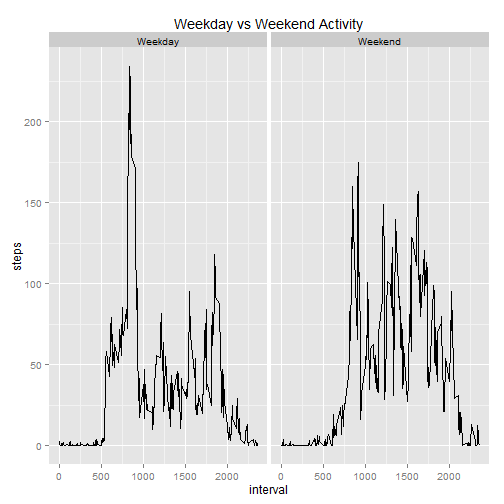
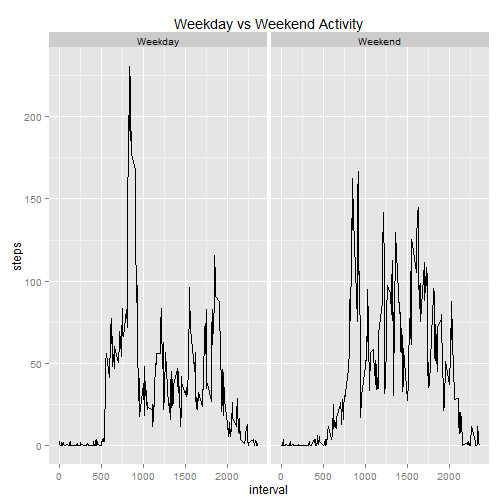
commit

diff --git a/PA1_template.html b/PA1_template.html
@@ -212,7 +212,7 @@ data &lt;- read.csv(fileName)
 data$date &lt;- as.character(data$date)
 </code></pre>
 
-<p>Create a second ata set without the NAs called data_na</p>
+<p>Create a second dataset without the NAs called: data_na</p>
 
 <pre><code class="r">data_na &lt;- subset(data, !is.na(data$steps))
 </code></pre>
@@ -240,19 +240,25 @@ for (i in days){
 
 <p>What are the mean and median number of steps</p>
 
-<p>&#39;&#39;&#39;{R}
-mean(number_of_steps); median(number_of_steps)</p>
+<pre><code class="r">mean(number_of_steps)
+</code></pre>
 
-<pre><code>Mean and median are fairly close, so it looks like there is not too much skew to the data.
+<pre><code>## [1] 10766.19
+</code></pre>
 
+<pre><code class="r">median(number_of_steps)
+</code></pre>
 
-## What is the average daily activity pattern?
+<pre><code>## [1] 10765
+</code></pre>
 
-Create a dataset, interval_result, which is the average steps per time interval
+<p>Mean and median are fairly close, so it looks like there is not too much skew to the data.</p>
 
+<h2>What is the average daily activity pattern?</h2>
 
-```r
-interval_result &lt;- data.frame()
+<p>Create a dataset, interval_result, which is the average steps per time interval</p>
+
+<pre><code class="r">interval_result &lt;- data.frame()
 interval &lt;- unique(data_na$interval)
 for (i in interval){
     interval_subset &lt;- subset(data_na, data_na$interval == i)
@@ -267,30 +273,59 @@ for (i in interval){
 <pre><code class="r">plot(interval_result$interval, interval_result$steps, xlab=&quot;Time Interval&quot;, ylab=&quot;Avg Steps&quot;, main=&quot;Average Steps At Time Of Day&quot;, type=&quot;l&quot;)
 </code></pre>
 
[2 lines of base64/hex data omitted]
 
 <h2>Imputing missing values</h2>
 
-<pre><code class="r">interval_result &lt;- data.frame()
-interval &lt;- unique(data_na$interval)
+<pre><code class="r">data_impute &lt;- data.frame()
+interval &lt;- unique(data$interval)
 for (i in interval){
-    interval_subset &lt;- subset(data_na, data_na$interval == i)
+    interval_subset &lt;- subset(data, data$interval == i)
 
-    t_avg &lt;- sd(interval_subset$steps)
-    interval_result &lt;- rbind(interval_result, data.frame(interval=i, steps=t_avg))
+    t_mean &lt;- mean(interval_subset$steps, na.rm=TRUE)
+    interval_subset$steps[is.na(interval_subset$steps)] &lt;- t_mean
+    data_impute &lt;- rbind(data_impute, interval_subset)
 }
 </code></pre>
 
-<pre><code class="r">plot(interval_result$interval, interval_result$steps, xlab=&quot;Time Interval&quot;, ylab=&quot;Avg Steps&quot;, main=&quot;Std Steps At Time Of Day&quot;, type=&quot;l&quot;)
+<p>Regraph the histogram for total steps per day using the imputed data</p>
+
+<pre><code class="r">number_of_steps &lt;-numeric()
+days &lt;- unique(data_impute$date)
+for (i in days){
+    day_subset &lt;- subset(data_impute, data_impute$date == i)
+
+    t_sum &lt;- sum(day_subset$steps)
+    number_of_steps &lt;- c(number_of_steps, t_sum)
+}
 </code></pre>
 
[1 lines of base64/hex data omitted]
+<p>Graph the distribution of steps per day</p>
+
+<pre><code class="r">hist(number_of_steps)
+</code></pre>
+
[1 lines of base64/hex data omitted]
+
+<p>Now let&#39;s see how the mean and median have changed after adding the imputed steps per day</p>
+
+<pre><code class="r">mean(number_of_steps)
+</code></pre>
+
+<pre><code>## [1] 10766.19
+</code></pre>
+
+<pre><code class="r">median(number_of_steps)
+</code></pre>
+
+<pre><code>## [1] 10766.19
+</code></pre>
 
 <h2>Are there differences in activity patterns between weekdays and weekends?</h2>
 
-<p>We need to create a new factor of weekday or weekend from day of week</p>
+<p>To answer this question, we need to create another factor which is either Weekday or Weekend, and apply it to the the data with imputed step values.  This will be a new column called: day_type</p>
 
-<pre><code class="r">day_type &lt;- as.Date(data_na$date)
+<pre><code class="r">day_type &lt;- as.Date(data_impute$date)
 day_type &lt;- weekdays(day_type)
 day_type &lt;- gsub(&quot;Monday&quot;, &quot;Weekday&quot;, day_type)
 day_type &lt;- gsub(&quot;Tuesday&quot;, &quot;Weekday&quot;, day_type)
@@ -300,10 +335,10 @@ day_type &lt;- gsub(&quot;Friday&quot;, &quot;Weekday&quot;, day_type)
 day_type &lt;- gsub(&quot;Saturday&quot;, &quot;Weekend&quot;, day_type)
 day_type &lt;- gsub(&quot;Sunday&quot;, &quot;Weekend&quot;, day_type)
 
-data_days &lt;- cbind(data_na, day_type)
+data_days &lt;- cbind(data_impute, day_type)
 </code></pre>
 
-<p>Compute the average </p>
+<p>Compute the average across day_type</p>
 
 <pre><code class="r">interval_result &lt;- data.frame()
 interval &lt;- unique(data_days$interval)
@@ -320,18 +355,18 @@ for (k in days){
 }
 </code></pre>
 
-<p>For this graph, we need to load teh gplot2 library</p>
+<p>For this graph, we need to load the gplot2 library</p>
 
 <pre><code class="r">library(ggplot2)
 </code></pre>
 
-<p>And plot the results</p>
+<p>And plot the Weekday and Weekend results side by side (since it is easier to read than up and down)</p>
 
 <pre><code class="r">g&lt;-ggplot(interval_result, aes(interval, steps)) + geom_line() + facet_grid(.~day) + labs(title=&quot;Weekday vs Weekend Activity&quot;)
 print(g)
 </code></pre>
 
[2 lines of base64/hex data omitted]
 
 </body>
 

diff --git a/PA1_template.md b/PA1_template.md
@@ -17,7 +17,7 @@ data <- read.csv(fileName)
 data$date <- as.character(data$date)
 ```
 
-Create a second ata set without the NAs called data_na
+Create a second dataset without the NAs called: data_na
 
 ```r
 data_na <- subset(data, !is.na(data$steps))
@@ -47,8 +47,22 @@ hist(number_of_steps)
 
 What are the mean and median number of steps
 
-'''{R}
-mean(number_of_steps); median(number_of_steps)
+
+```r
+mean(number_of_steps)
+```
+
+```
+## [1] 10766.19
+```
+
+
+```r
+median(number_of_steps)
+```
+
+```
+## [1] 10765
 ```
 Mean and median are fairly close, so it looks like there is not too much skew to the data.
 
@@ -75,35 +89,68 @@ Plot activity per time interval
 plot(interval_result$interval, interval_result$steps, xlab="Time Interval", ylab="Avg Steps", main="Average Steps At Time Of Day", type="l")
 ```
 
-![plot of chunk unnamed-chunk-5](figure/unnamed-chunk-5-1.png) 
+![plot of chunk daily_activity](figure/daily_activity-1.png) 
 
 ## Imputing missing values
 
 
 ```r
-interval_result <- data.frame()
-interval <- unique(data_na$interval)
+data_impute <- data.frame()
+interval <- unique(data$interval)
 for (i in interval){
-    interval_subset <- subset(data_na, data_na$interval == i)
+    interval_subset <- subset(data, data$interval == i)
     
-    t_avg <- sd(interval_subset$steps)
-    interval_result <- rbind(interval_result, data.frame(interval=i, steps=t_avg))
+    t_mean <- mean(interval_subset$steps, na.rm=TRUE)
+    interval_subset$steps[is.na(interval_subset$steps)] <- t_mean
+    data_impute <- rbind(data_impute, interval_subset)
 }
 ```
+Regraph the histogram for total steps per day using the imputed data
 
 
 ```r
-plot(interval_result$interval, interval_result$steps, xlab="Time Interval", ylab="Avg Steps", main="Std Steps At Time Of Day", type="l")
+number_of_steps <-numeric()
+days <- unique(data_impute$date)
+for (i in days){
+    day_subset <- subset(data_impute, data_impute$date == i)
+    
+    t_sum <- sum(day_subset$steps)
+    number_of_steps <- c(number_of_steps, t_sum)
+}
+```
+Graph the distribution of steps per day
+
+```r
+hist(number_of_steps)
 ```
 
-![plot of chunk unnamed-chunk-7](figure/unnamed-chunk-7-1.png) 
+![plot of chunk histogram_steps_per_day_impute](figure/histogram_steps_per_day_impute-1.png) 
 
-## Are there differences in activity patterns between weekdays and weekends?
+Now let's see how the mean and median have changed after adding the imputed steps per day
 
-We need to create a new factor of weekday or weekend from day of week
 
 ```r
-day_type <- as.Date(data_na$date)
+mean(number_of_steps)
+```
+
+```
+## [1] 10766.19
+```
+
+```r
+median(number_of_steps)
+```
+
+```
+## [1] 10766.19
+```
+## Are there differences in activity patterns between weekdays and weekends?
+
+To answer this question, we need to create another factor which is either Weekday or Weekend, and apply it to the the data with imputed step values.  This will be a new column called: day_type
+
+
+```r
+day_type <- as.Date(data_impute$date)
 day_type <- weekdays(day_type)
 day_type <- gsub("Monday", "Weekday", day_type)
 day_type <- gsub("Tuesday", "Weekday", day_type)
@@ -113,9 +160,9 @@ day_type <- gsub("Friday", "Weekday", day_type)
 day_type <- gsub("Saturday", "Weekend", day_type)
 day_type <- gsub("Sunday", "Weekend", day_type)
 
-data_days <- cbind(data_na, day_type)
+data_days <- cbind(data_impute, day_type)
 ```
-Compute the average 
+Compute the average across day_type
 
 
 ```r
@@ -134,13 +181,13 @@ for (k in days){
 }
 ```
 
-For this graph, we need to load teh gplot2 library
+For this graph, we need to load the gplot2 library
 
 ```r
 library(ggplot2)
 ```
 
-And plot the results
+And plot the Weekday and Weekend results side by side (since it is easier to read than up and down)
 
 
 ```r
@@ -149,3 +196,4 @@ print(g)
 ```
 
 ![plot of chunk Weekday_vs_Weekend](figure/Weekday_vs_Weekend-1.png) 
+
